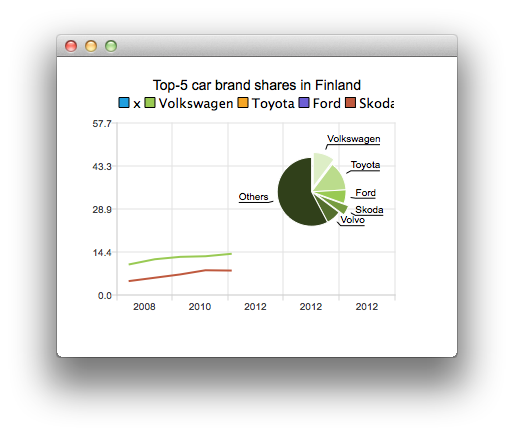
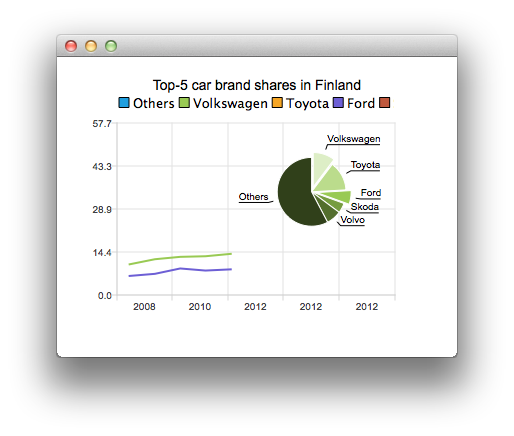
Fixed Qml Custom Model demo header data

Changed region(s): [[0.249, 0.2087, 0.7782, 0.2683], [0.6226, 0.4174, 0.7471, 0.5069], [0.249, 0.5963, 0.4669, 0.656]]

diff --git a/demos/qmlcustommodel/qml/qmlcustommodel/main.qml b/demos/qmlcustommodel/qml/qmlcustommodel/main.qml
@@ -42,13 +42,14 @@ Rectangle {
         //![2]
         CustomModel {
             id: customModel
-            CustomModelElement { rowHeader: ""; values: [0, "Manufacturer", 0, 1, 2, 3, 4] }
-            CustomModelElement { rowHeader: "Volkswagen"; values: [1, "Volkswagen", 10.3, 12.0, 12.8, 13.0, 13.8] }
-            CustomModelElement { rowHeader: "Toyota"; values: [2, "Toyota", 13.8, 13.5, 16.2, 13.7, 10.7] }
-            CustomModelElement { rowHeader: "Ford"; values: [3, "Ford", 6.4, 7.1, 8.9, 8.2, 8.6] }
-            CustomModelElement { rowHeader: "Skoda"; values: [4, "Skoda", 4.7, 5.8, 6.9, 8.3, 8.2] }
-            CustomModelElement { rowHeader: "Volvo"; values: [5, "Volvo", 7.1, 6.7, 6.5, 6.3, 7.0] }
-            CustomModelElement { rowHeader: "Others"; values: [6, "Others", 57.7, 54.9, 48.7, 50.5, 51.7] }
+            verticalHeaders: ["Manufacturer", "Volkswagen", "Toyota", "Ford", "Skoda", "Volvo", "Others"]
+            CustomModelElement { values: [0, "Manufacturer", 0, 1, 2, 3, 4] }
+            CustomModelElement { values: [1, "Volkswagen", 10.3, 12.0, 12.8, 13.0, 13.8] }
+            CustomModelElement { values: [2, "Toyota", 13.8, 13.5, 16.2, 13.7, 10.7] }
+            CustomModelElement { values: [3, "Ford", 6.4, 7.1, 8.9, 8.2, 8.6] }
+            CustomModelElement { values: [4, "Skoda", 4.7, 5.8, 6.9, 8.3, 8.2] }
+            CustomModelElement { values: [5, "Volvo", 7.1, 6.7, 6.5, 6.3, 7.0] }
+            CustomModelElement { values: [6, "Others", 57.7, 54.9, 48.7, 50.5, 51.7] }
         }
         //![2]
 

diff --git a/demos/qmlcustomizations/qml/qmlcustomizations/main.qml b/demos/qmlcustomizations/qml/qmlcustomizations/main.qml
@@ -37,6 +37,7 @@ Rectangle {
 
         PieSeries {
             id: wheelOfFortune
+            horizontalPosition: 0.3
         }
 
         SplineSeries {

diff --git a/demos/qmlcustommodel/declarativemodel.cpp b/demos/qmlcustommodel/declarativemodel.cpp
@@ -20,6 +20,7 @@
 
 #include "declarativemodel.h"
 #include <qdeclarativelist.h>
+#include <QStringList>
 #include <QDebug>
 
 ////////////// Table model element ///////////////////
@@ -27,16 +28,6 @@
 DeclarativeTableModelElement::DeclarativeTableModelElement(QObject *parent)
     : QObject(parent)
 {
-}
-
-QString DeclarativeTableModelElement::rowHeader()
-{
-    return m_rowHeader;
-}
-
-void DeclarativeTableModelElement::setRowHeader(QString header)
-{
-    m_rowHeader = header;
 }
 
 QVariantList DeclarativeTableModelElement::values()
@@ -66,9 +57,19 @@ void DeclarativeTableModel::componentComplete()
         if (qobject_cast<DeclarativeTableModelElement *>(child)) {
             DeclarativeTableModelElement *element = qobject_cast<DeclarativeTableModelElement *>(child);
             append(element->values());
-            setHeaderData(rowCount() - 1, Qt::Horizontal, element->rowHeader());
         }
     }
+}
+
+void DeclarativeTableModel::setVerticalHeaders(QStringList headers)
+{
+    for (int i(0); i < headers.count(); i++)
+        setHeaderData(i, Qt::Vertical, headers.at(i));
+}
+
+QStringList DeclarativeTableModel::verticalHeaders()
+{
+    return QStringList();
 }
 
 QDeclarativeListProperty<QObject> DeclarativeTableModel::modelChildren()

diff --git a/demos/qmlcustommodel/customtablemodel.cpp b/demos/qmlcustommodel/customtablemodel.cpp
@@ -48,9 +48,9 @@ QVariant CustomTableModel::headerData(int section, Qt::Orientation orientation, 
     if (role != Qt::DisplayRole)
         return QVariant();
 
-    if (orientation == Qt::Horizontal) {
-        if (m_rowHeaders.count() > section)
-            return m_rowHeaders[section];
+    if (orientation == Qt::Vertical) {
+        if (m_verticalHeaders.count() > section)
+            return m_verticalHeaders[section];
         else
             return QAbstractTableModel::headerData(section, orientation, role);
     } else {
@@ -60,10 +60,10 @@ QVariant CustomTableModel::headerData(int section, Qt::Orientation orientation, 
 
 bool CustomTableModel::setHeaderData(int section, Qt::Orientation orientation, const QVariant &value, int role)
 {
-    if (orientation == Qt::Horizontal) {
-        while (m_rowHeaders.count() <= section)
-            m_rowHeaders.append(QVariant());
-        m_rowHeaders.replace(section, value);
+    if (orientation == Qt::Vertical) {
+        while (m_verticalHeaders.count() <= section)
+            m_verticalHeaders.append(QVariant());
+        m_verticalHeaders.replace(section, value);
     } else {
         return QAbstractTableModel::setHeaderData(section, orientation, value, role);
     }

diff --git a/demos/qmlcustommodel/declarativemodel.h b/demos/qmlcustommodel/declarativemodel.h
@@ -29,17 +29,13 @@
 class DeclarativeTableModelElement : public QObject
 {
     Q_OBJECT
-    Q_PROPERTY(QString rowHeader READ rowHeader WRITE setRowHeader)
     Q_PROPERTY(QVariantList values READ values WRITE setValues)
 
 public:
     explicit DeclarativeTableModelElement(QObject *parent = 0);
-    QString rowHeader();
-    void setRowHeader(QString header);
     QVariantList values();
     void setValues(QVariantList values);
 private:
-    QString m_rowHeader;
     QVariantList m_values;
 };
 
@@ -48,11 +44,14 @@ class DeclarativeTableModel : public CustomTableModel, public QDeclarativeParser
     Q_OBJECT
     Q_INTERFACES(QDeclarativeParserStatus)
     Q_PROPERTY(QDeclarativeListProperty<QObject> modelChildren READ modelChildren)
+    Q_PROPERTY(QStringList verticalHeaders READ verticalHeaders WRITE setVerticalHeaders)
     Q_CLASSINFO("DefaultProperty", "modelChildren")
 
 public:
     explicit DeclarativeTableModel(QObject *parent = 0);
     QDeclarativeListProperty<QObject> modelChildren();
+    void setVerticalHeaders(QStringList headers);
+    QStringList verticalHeaders();
 
 public: // from QDeclarativeParserStatus
     void classBegin();

diff --git a/demos/qmlcustommodel/customtablemodel.h b/demos/qmlcustommodel/customtablemodel.h
@@ -48,7 +48,7 @@ public:
 
 private:
     QList<QVector<QVariant> * > m_data;
-    QList<QVariant> m_rowHeaders;
+    QList<QVariant> m_verticalHeaders;
     int m_columnCount;
     int m_rowCount;
 };
